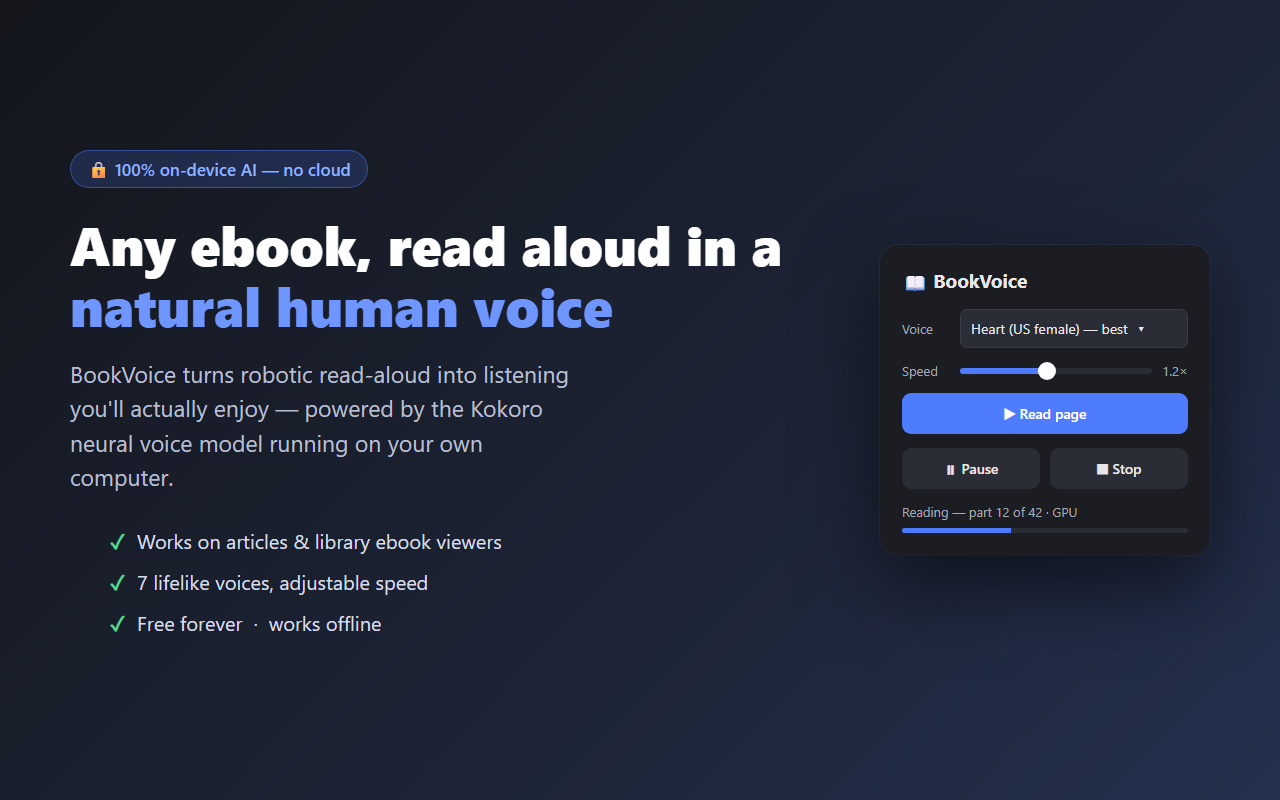
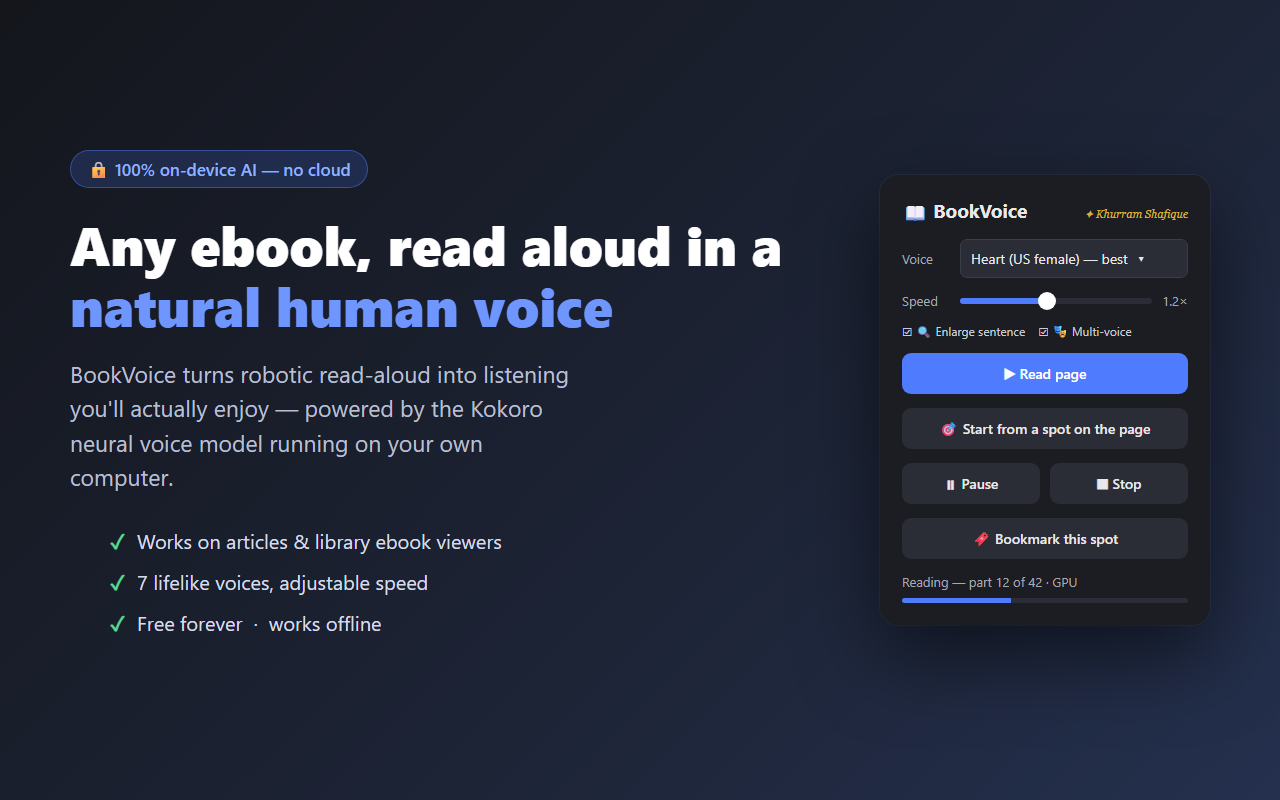
Store assets for v0.2.0: multi-voice and PDF screenshots, updated listing copy
New 1280x800 screenshots showcasing the dialogue cast and the built-in
PDF reader; hero shot refreshed to match the current popup (toggles,
picker, bookmark, author signature). PUBLISHING.md gains the five-shot
upload order, the v0.2.0 description text, and the contextMenus
permission justification.

diff --git a/store-assets/src/shot4-multivoice.html b/store-assets/src/shot4-multivoice.html
@@ -1,0 +1,41 @@
+<!DOCTYPE html>
+<html><head><meta charset="utf-8"><style>
+  * { margin: 0; box-sizing: border-box; font-family: "Segoe UI", system-ui, sans-serif; }
+  body { width: 1280px; height: 800px; overflow: hidden; background: linear-gradient(135deg, #14161c 0%, #1d2436 60%, #24304e 100%); display: flex; align-items: center; padding: 0 60px; gap: 48px; }
+  .left { flex: 1; }
+  h1 { font-size: 44px; font-weight: 800; color: #fff; margin-bottom: 14px; }
+  h1 span { color: #6f95ff; }
+  p.sub { font-size: 20px; color: #b8bfd0; line-height: 1.55; margin-bottom: 30px; }
+  .page { background: #fdfcf8; border-radius: 14px; padding: 34px 38px; box-shadow: 0 30px 80px rgba(0,0,0,.5); }
+  .line { font-family: Georgia, serif; font-size: 18.5px; line-height: 1.7; color: #2a2a2a; margin-bottom: 14px; display: flex; gap: 12px; align-items: baseline; }
+  .who { flex: 0 0 auto; font-family: "Segoe UI", sans-serif; font-size: 11px; font-weight: 700; padding: 3px 10px; border-radius: 999px; letter-spacing: .3px; }
+  .narr { background: rgba(79,124,255,.15); color: #3757c4; }
+  .man  { background: rgba(93,213,152,.2); color: #1e7a4c; }
+  .young{ background: rgba(255,153,51,.18); color: #b25f10; }
+  .cast { width: 330px; background: #1b1d22; border-radius: 16px; padding: 22px; box-shadow: 0 30px 80px rgba(0,0,0,.55), 0 0 0 1px rgba(255,255,255,.06); }
+  .cast h2 { font-size: 13px; color: #a5a8b0; text-transform: uppercase; letter-spacing: .5px; margin-bottom: 14px; }
+  .row { display: flex; align-items: center; gap: 10px; margin-bottom: 10px; }
+  .name { flex: 1; color: #e8e8ea; font-size: 14.5px; text-transform: capitalize; }
+  .sel { flex: 0 0 150px; background: #2a2d35; color: #e8e8ea; border: 1px solid #3a3e48; border-radius: 7px; padding: 8px 10px; font-size: 12.5px; }
+  .hint { font-size: 11px; color: #6d717c; margin-top: 8px; }
+</style></head>
+<body>
+  <div class="left">
+    <h1>Dialogue gets <span>a cast of voices</span> 🎭</h1>
+    <p class="sub">BookVoice detects who's speaking — interviews, scripts, novels — and gives every character their own voice, with your narrator reading the rest. Recast anyone with one click.</p>
+    <div class="page">
+      <div class="line"><span class="who narr">NARRATOR · Heart</span><span>Once there was a bright young man who was looking for a special kind of manager.</span></div>
+      <div class="line"><span class="who young">YOUNG MAN · Michael</span><span>“Do you take time to work with your people?”</span></div>
+      <div class="line"><span class="who man">MANAGER · George</span><span>“One minute is all it takes,” said the manager, smiling.</span></div>
+      <div class="line"><span class="who young">YOUNG MAN · Michael</span><span>“Then I would very much like to learn how.”</span></div>
+    </div>
+  </div>
+  <div class="cast">
+    <h2>🎭 Cast</h2>
+    <div class="row"><span class="name">manager</span><span class="sel">George (UK male) ▾</span></div>
+    <div class="row"><span class="name">young man</span><span class="sel">Michael (US male) ▾</span></div>
+    <div class="row"><span class="name">visitor</span><span class="sel">Bella (US female) ▾</span></div>
+    <div class="row"><span class="name">elizabeth</span><span class="sel">Emma (UK female) ▾</span></div>
+    <div class="hint">Voice changes apply the next time you press Read</div>
+  </div>
+</body></html>

diff --git a/store-assets/src/shot5-pdf.html b/store-assets/src/shot5-pdf.html
@@ -1,0 +1,42 @@
+<!DOCTYPE html>
+<html><head><meta charset="utf-8"><style>
+  * { margin: 0; box-sizing: border-box; font-family: "Segoe UI", system-ui, sans-serif; }
+  body { width: 1280px; height: 800px; overflow: hidden; background: linear-gradient(135deg, #14161c 0%, #1d2436 60%, #24304e 100%); display: flex; flex-direction: column; align-items: center; padding-top: 56px; }
+  h1 { font-size: 44px; font-weight: 800; color: #fff; margin-bottom: 12px; }
+  h1 span { color: #6f95ff; }
+  p.sub { font-size: 20px; color: #b8bfd0; margin-bottom: 36px; }
+  .win { width: 900px; border-radius: 14px; overflow: hidden; box-shadow: 0 30px 80px rgba(0,0,0,.55); }
+  .bar { display: flex; align-items: center; gap: 12px; background: #1b1d22; color: #e8e8ea; padding: 12px 18px; font-size: 14px; }
+  .bar .title { flex: 1; font-weight: 600; color: #e8e8ea; }
+  .btn { border-radius: 8px; padding: 8px 14px; font-size: 13px; font-weight: 600; }
+  .btn.dark { background: #2a2d35; }
+  .btn.blue { background: #4f7cff; color: #fff; }
+  .paper { background: #f2f0eb; padding: 34px 60px 44px; }
+  .pageMark { font-size: 11px; color: #8a877f; border-bottom: 1px solid #dcd8cf; margin-bottom: 16px; padding-bottom: 4px; text-transform: uppercase; letter-spacing: .6px; }
+  .paper p { font-family: Georgia, serif; font-size: 18px; line-height: 1.75; color: #222; margin-bottom: 14px; }
+  .sent { background: rgba(79,124,255,.22); border-radius: 3px; font-size: 1.18em; }
+  .word { background: rgba(255,196,0,.75); border-radius: 3px; }
+  .pill { display: inline-flex; align-items: center; gap: 8px; background: #1b1d22; color: #e8e8ea; border-radius: 999px; padding: 9px 14px; font-size: 13px; box-shadow: 0 8px 26px rgba(0,0,0,.45); margin-top: 18px; }
+  .pbtn { width: 28px; height: 28px; border-radius: 999px; background: #2a2d35; display: inline-flex; align-items: center; justify-content: center; font-size: 12px; }
+  .pbtn.play { background: #4f7cff; color: #fff; }
+  .prog { color: #a5a8b0; }
+</style></head>
+<body>
+  <h1>Reads your <span>PDFs</span> too 📄</h1>
+  <p class="sub">Open any PDF in the built-in reader — highlighting, bookmarks, and every voice feature included.</p>
+  <div class="win">
+    <div class="bar">
+      <span>📖 BookVoice</span>
+      <span class="title">One-Minute-Management.pdf</span>
+      <span class="btn dark">🎯 Pick start</span>
+      <span class="btn blue">▶ Read aloud</span>
+    </div>
+    <div class="paper">
+      <div class="pageMark">Page 12</div>
+      <p>He wanted to find one who encouraged people to balance their work and their life, so that each became more meaningful and enjoyable.</p>
+      <p><span class="sent">His search had taken him over <span class="word">many</span> years to the far corners of the world.</span></p>
+      <p>He had spoken with many managers: executives and entrepreneurs, university presidents and shop owners — with men and women, young and old.</p>
+      <span class="pill"><span class="pbtn play">⏸</span><span class="pbtn">⏭</span><span class="pbtn">⏹</span><span class="prog">31/206</span></span>
+    </div>
+  </div>
+</body></html>

diff --git a/store-assets/src/shot1-hero.html b/store-assets/src/shot1-hero.html
@@ -11,7 +11,7 @@
   li { font-size: 20px; color: #d7dcea; margin-bottom: 14px; }
   li::before { content: "✓"; color: #5dd598; font-weight: 800; margin-right: 12px; }
   .popup { width: 330px; background: #1b1d22; border-radius: 18px; padding: 22px; box-shadow: 0 30px 80px rgba(0,0,0,.55), 0 0 0 1px rgba(255,255,255,.06); }
-  .popup h2 { font-size: 19px; color: #e8e8ea; margin-bottom: 16px; }
+  .popup h2 { font-size: 19px; color: #e8e8ea; margin-bottom: 16px; display: flex; align-items: baseline; }
   .row { display: flex; gap: 10px; align-items: center; margin-bottom: 14px; }
   .lbl { font-size: 13px; color: #a5a8b0; min-width: 48px; }
   .sel { flex: 1; background: #2a2d35; color: #e8e8ea; border: 1px solid #3a3e48; border-radius: 7px; padding: 9px 10px; font-size: 14px; }
@@ -37,11 +37,14 @@
     </ul>
   </div>
   <div class="popup">
-    <h2>📖 BookVoice</h2>
+    <h2>📖 BookVoice <span style="margin-left:auto;font:italic 400 11px Georgia,serif;color:#d4af37;">✦ Khurram Shafique</span></h2>
     <div class="row"><span class="lbl">Voice</span><span class="sel">Heart (US female) — best &nbsp;▾</span></div>
     <div class="row"><span class="lbl">Speed</span><span class="slider"><span class="fillbar"></span><span class="knob"></span></span><span class="spd">1.2×</span></div>
+    <div class="row" style="font-size:12px;color:#c9ccd4;gap:6px">☑ 🔍 Enlarge sentence &nbsp;&nbsp; ☑ 🎭 Multi-voice</div>
     <div class="row"><span class="btn primary">▶ Read page</span></div>
+    <div class="row"><span class="btn">🎯 Start from a spot on the page</span></div>
     <div class="row"><span class="btn">⏸ Pause</span><span class="btn">⏹ Stop</span></div>
+    <div class="row"><span class="btn">🔖 Bookmark this spot</span></div>
     <div class="status">Reading — part 12 of 42 · GPU</div>
     <div class="bar"><div></div></div>
   </div>

diff --git a/PUBLISHING.md b/PUBLISHING.md
@@ -74,14 +74,66 @@ public - a GitHub repository README/gist works fine - and paste its URL.
 
 ## Step 5 — Graphics assets (ready in `store-assets/`)
 
-- **Screenshots (1280x800):** upload all three —
-  `store-assets/shot1-hero.png`, `store-assets/shot2-highlight.png`,
-  `store-assets/shot3-privacy.png`
+- **Screenshots (1280x800, max 5):** upload all five, in this order —
+  1. `store-assets/shot1-hero.png` (popup + headline)
+  2. `store-assets/shot4-multivoice.png` (dialogue cast - headline feature)
+  3. `store-assets/shot2-highlight.png` (follow-along highlighting)
+  4. `store-assets/shot5-pdf.png` (built-in PDF reader)
+  5. `store-assets/shot3-privacy.png` (private by design)
 - **Small promo tile (440x280):** `store-assets/tile-small.png`
-- Optional extra: add a real screenshot of BookVoice reading an actual page
-  (Win+Shift+S, crop to 1280x800) — real-usage shots build trust.
+- Optional extra: swap one for a real screenshot of BookVoice reading an
+  actual page - real-usage shots build trust.
 - To tweak these images: edit the HTML in `store-assets/src/` and re-render
   with headless Chrome (see the command in the repo history or ask).
+
+## v0.2.0 listing description (paste into Description)
+
+Tired of robotic read-aloud voices? BookVoice reads any web page, article,
+online ebook (EPUB viewers like EBSCO and library readers), or PDF with a
+genuinely natural neural voice - powered by the open-source Kokoro AI voice
+model running entirely on YOUR device.
+
+WHY BOOKVOICE
+- 7 natural voices (US & UK, male & female), adjustable speed (0.5x-2x)
+- Multi-voice dialogue: interviews, scripts, and novels get a full cast -
+  each character speaks in their own voice, with a Cast panel to recast
+  anyone in one click
+- Live follow-along: the sentence being read is highlighted (and gently
+  enlarged), the spoken word sweeps in yellow, and the page scrolls itself
+- Start anywhere: pick any paragraph visually and reading begins right there
+- Bookmarks & resume: save your spot in any book and continue with one click
+- Floating on-page control: pause, skip a sentence, or stop without opening
+  the popup
+- Built-in PDF reader: open any PDF (web or local file) and every feature
+  works there too
+- Clean reading: article extraction drops ads, menus, cookie banners, and
+  footnote clutter before a single word is spoken
+
+PRIVATE BY DESIGN
+- 100% local: nothing you read ever leaves your computer
+- No account, no API keys, no telemetry - free forever
+- Works offline after the one-time voice model download (~330 MB)
+- Uses your GPU (WebGPU) when available; falls back to CPU automatically
+- A device compatibility check on install tells you upfront how well your
+  hardware will handle it
+
+GETTING STARTED
+1. Open any article, ebook, or PDF
+2. Click the BookVoice icon
+3. Pick a voice and press Read page - or use "Start from a spot on the
+   page" and click exactly where you want to begin
+
+NOTE
+Chrome's built-in PDF viewer is closed to extensions - use the "Open in
+BookVoice PDF Reader" button the popup offers on PDFs. Ebook viewers load
+one section at a time, so start each new chapter when the previous ends.
+
+## v0.2.0 new permission justification (Privacy tab)
+
+contextMenus:
+Adds a "BookVoice: Read from here" option to the right-click menu so the
+user can start reading aloud from a chosen paragraph. Used only when the
+user clicks that menu item.
 
 ## Step 6 — Visibility and submit
 
